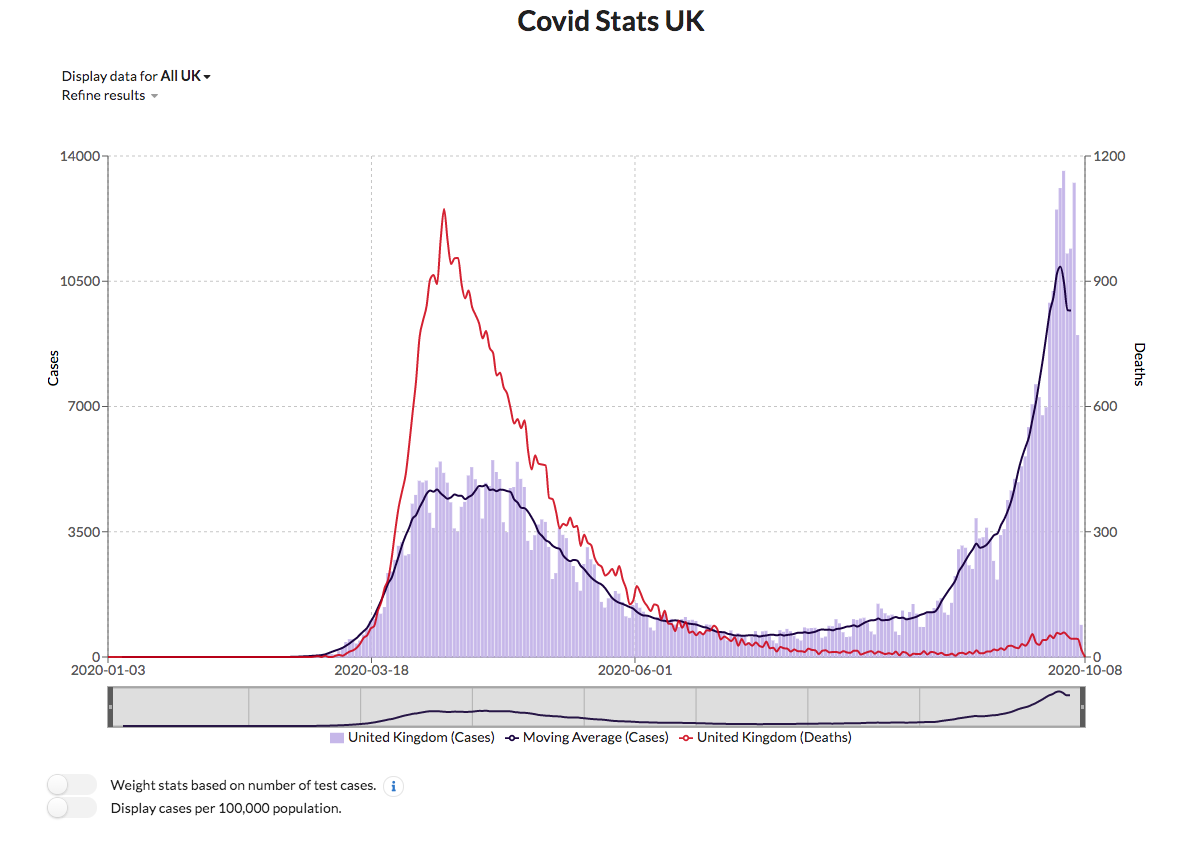
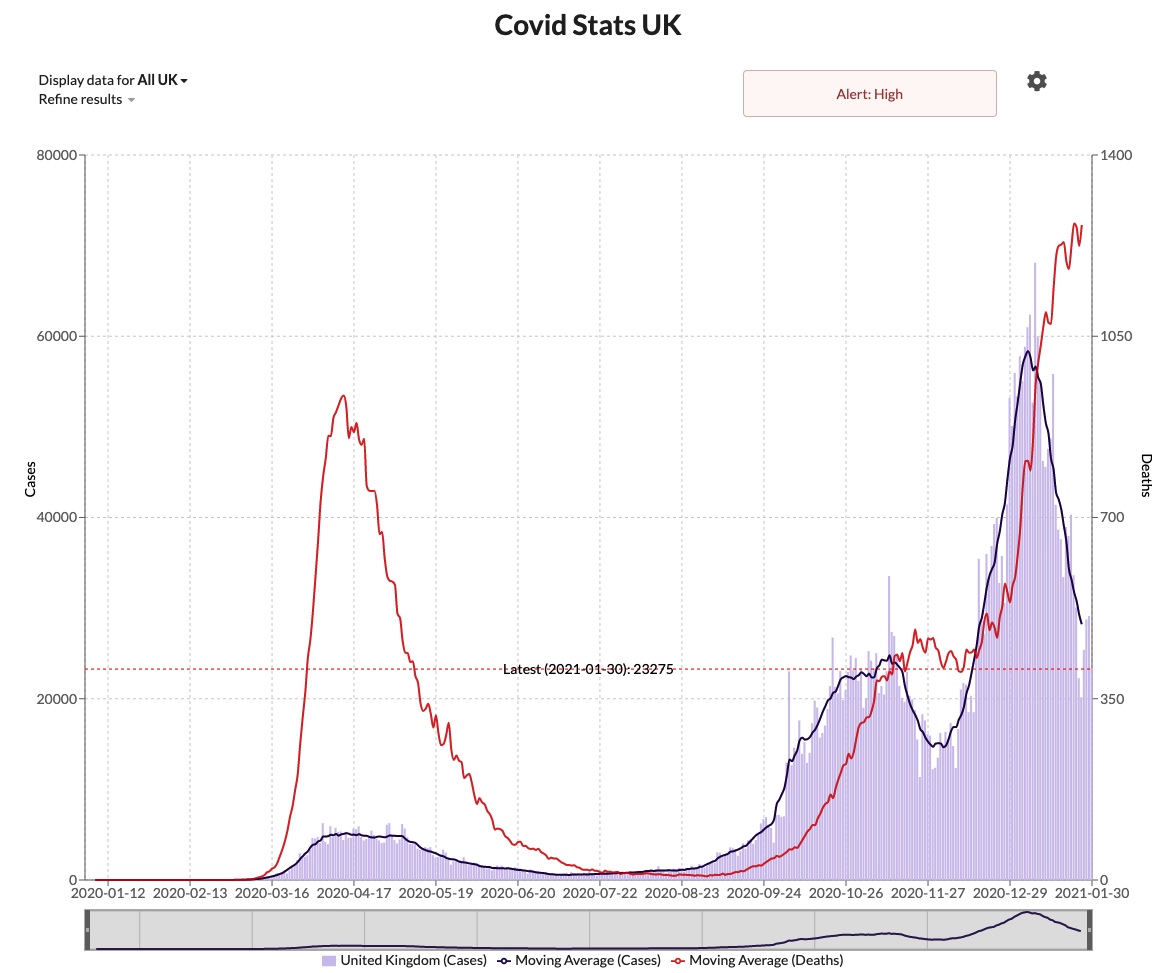
readme updates
- more up to date image.
- include link to website address.

diff --git a/README.md b/README.md
@@ -1,15 +1,17 @@
-# Covid Stats UK
-Website to display stats about Covid cases/deaths in the UK.
+# [Covid Stats UK](https://covidstats.uk)
+Website to display stats about Covid cases/deaths in the UK. Hosted at [https://covidstats.uk](https://covidstats.uk).
 
 ![website image](readme-pages/images/website.png)
 
 ## Features
-* Display cases for UK/Nation/Region/Local.
+* Display cases for UK/Nation/Region/County/Local.
 * Aggregates cases from local area to display a total.
-* Display deaths for UK/Nation/Region.
+* Display deaths for UK/Nation/Region/County.
 * Ability to scale cases/deaths per 100,000.
 * Display a "worst-case" cases stat by extrapolating the number 
 of tests to cases ratio backwards based upon the day of most tests.
+* Display an alert level based upon the number of cases over the last 14 days.
+* Settings modal to adjust the display.
 
 ## Infrastructure
 
